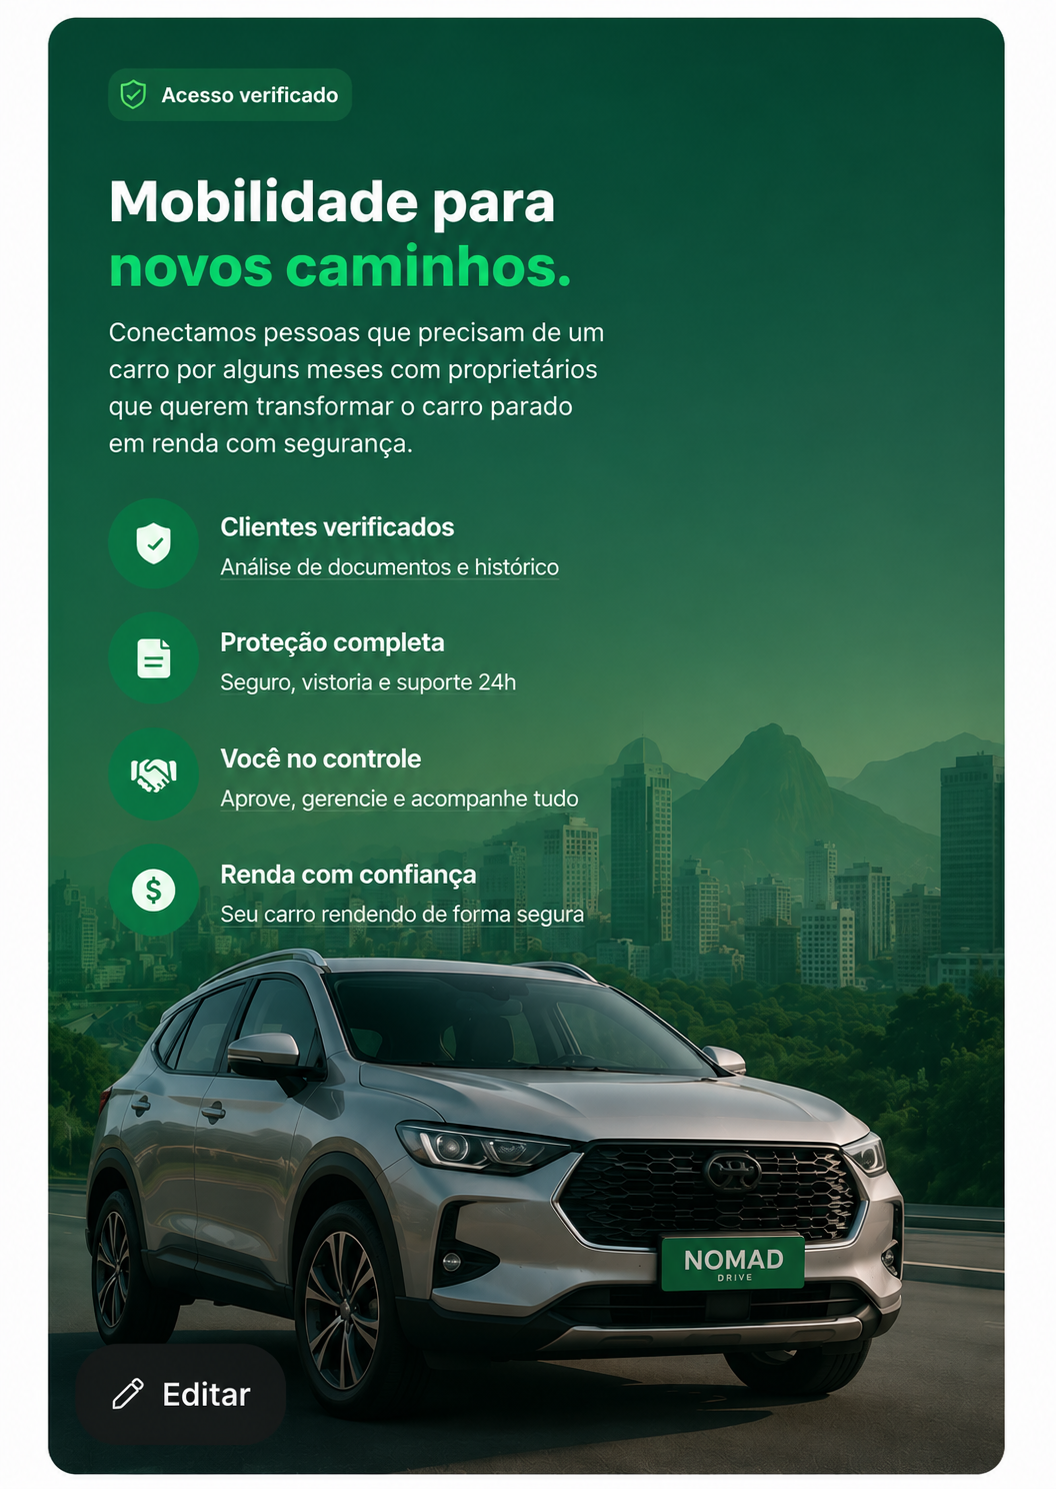
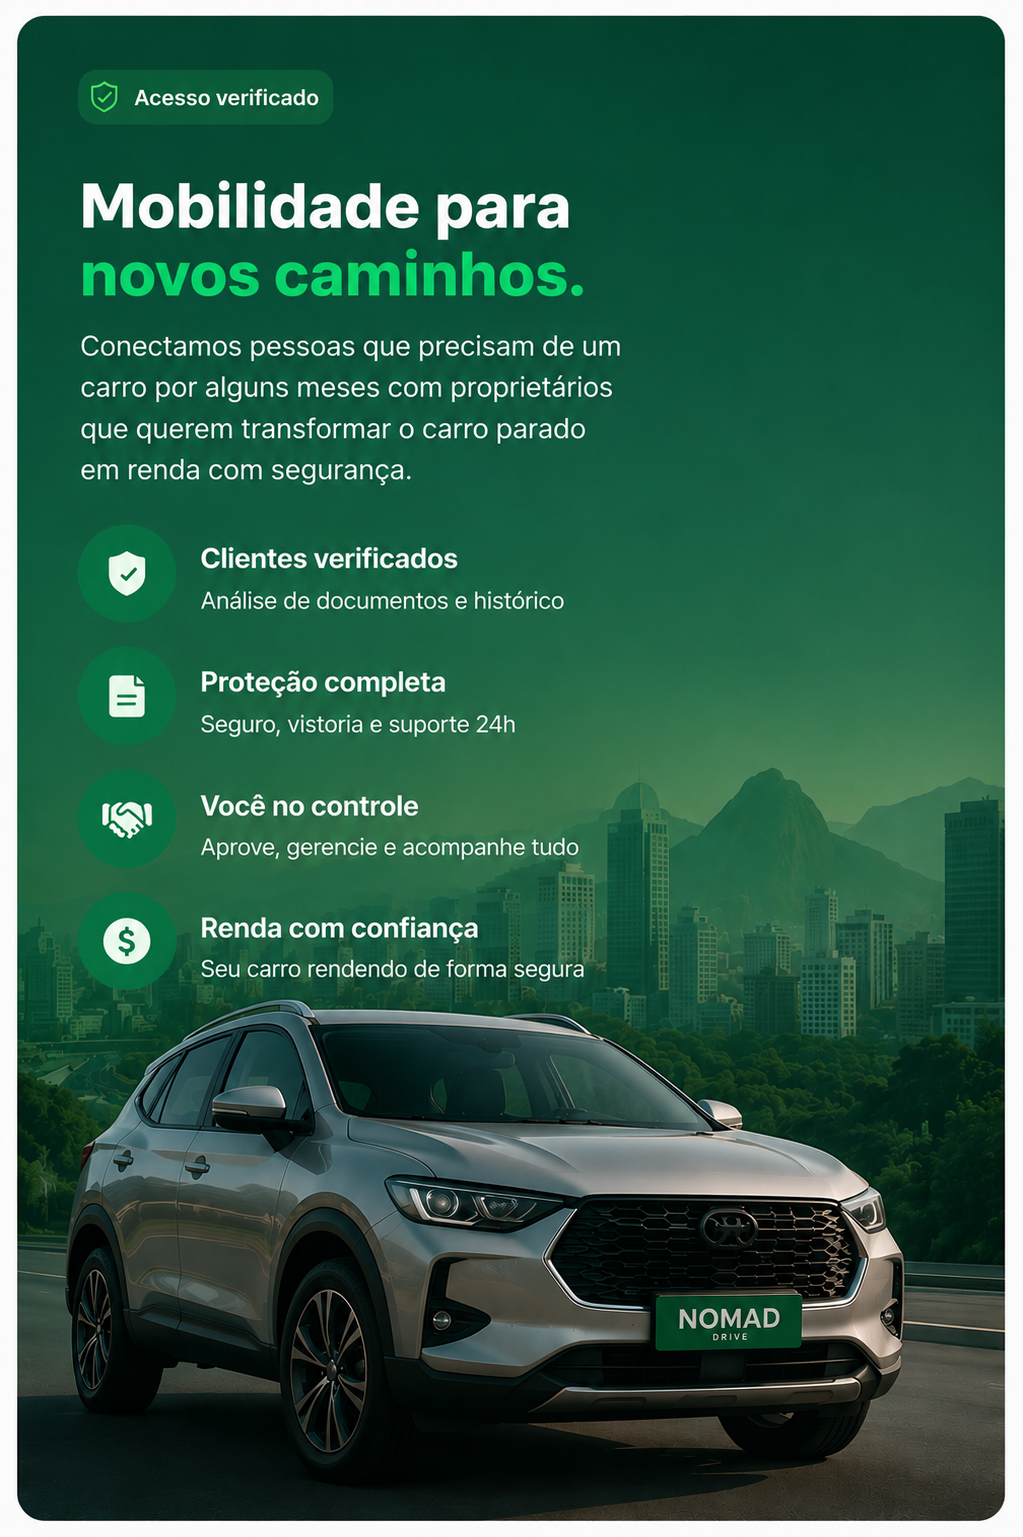
fix: nova imagem do login e corrige atributo hidden anulado pelo CSS (.btn/.auth-form)

Changed region(s): [[0.0, 0.0, 1.0, 1.0]]

diff --git a/style.css b/style.css
@@ -33,6 +33,8 @@ body {
 }
 img { max-width: 100%; display: block; }
 a { color: inherit; text-decoration: none; }
+/* o atributo hidden deve sempre vencer regras de display de classes (.btn, .auth-form, etc.) */
+[hidden] { display: none !important; }
 h1, h2, h3, h4 { font-family: var(--font-d); line-height: 1.2; font-weight: 700; }
 ul, ol { list-style: none; }
 